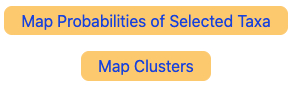
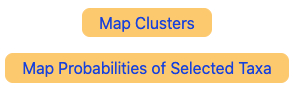
Swapped positions of the two cluster map buttons

diff --git a/src/frontend/routes/predictions/PredictionsHowTo.svelte b/src/frontend/routes/predictions/PredictionsHowTo.svelte
@@ -154,19 +154,18 @@
   alt="The buttons that open maps"
 />
 <p>
-  The above two buttons show maps. The first of these maps the range extensions that the
-  clustering predicts. The button is only enabled when you've selected taxa via the Taxa
-  tab. When you click the button, a map opens showing you where the selected taxa have
-  not yet been found but might be found, color coding each location by the probability
-  of finding any of the taxa there. It gives you the ability to control how the
-  probability is computed, allows you to see the known range of the taxa, and provides a
-  list of all locations having non-zero probability of having the taxa, sorted by
-  probability.
+  The above two buttons open maps. The first opens a map of all caves color coded by the
+  cluster to which to belongs. This map selectively shows and hides clusters to help you
+  visualize them.
 </p>
 <p>
-  The second of the above buttons opens a map of all caves color coded by the cluster to
-  which to belongs. This map allows you to visualize the clusters. You can selectively
-  show and hide clusters.
+  The second of the above buttons maps the range extensions that the clustering
+  predicts. The button is only enabled when you've selected taxa via the Taxa tab. When
+  you click the button, a map opens showing you where the selected taxa have not yet
+  been found but might be found, color coding each location by the probability of
+  finding any of the taxa there. It gives you the ability to control how the probability
+  is computed, allows you to see the known range of the taxa, and provides a list of all
+  locations having non-zero probability of having the taxa, sorted by probability.
 </p>
 <ExampleImage
   src="/static/predictions/radar-graph.jpg"

diff --git a/src/frontend/routes/predictions/PredictionsPage.svelte b/src/frontend/routes/predictions/PredictionsPage.svelte
@@ -514,14 +514,14 @@
               <button
                 class="btn btn-major mb-3"
                 type="button"
-                disabled={$selectedTaxa === null}
-                on:click={() => (showingProbabilityMap = true)}
-                >Map Probabilities of Selected Taxa</button
+                on:click={() => (showingClusterMap = true)}>Map Clusters</button
               >
               <button
                 class="btn btn-major mb-3"
                 type="button"
-                on:click={() => (showingClusterMap = true)}>Map Clusters</button
+                disabled={$selectedTaxa === null}
+                on:click={() => (showingProbabilityMap = true)}
+                >Map Probabilities of Selected Taxa</button
               >
               <ClusterPieChart
                 dataByCluster={$clusterStore.dataByCluster}
